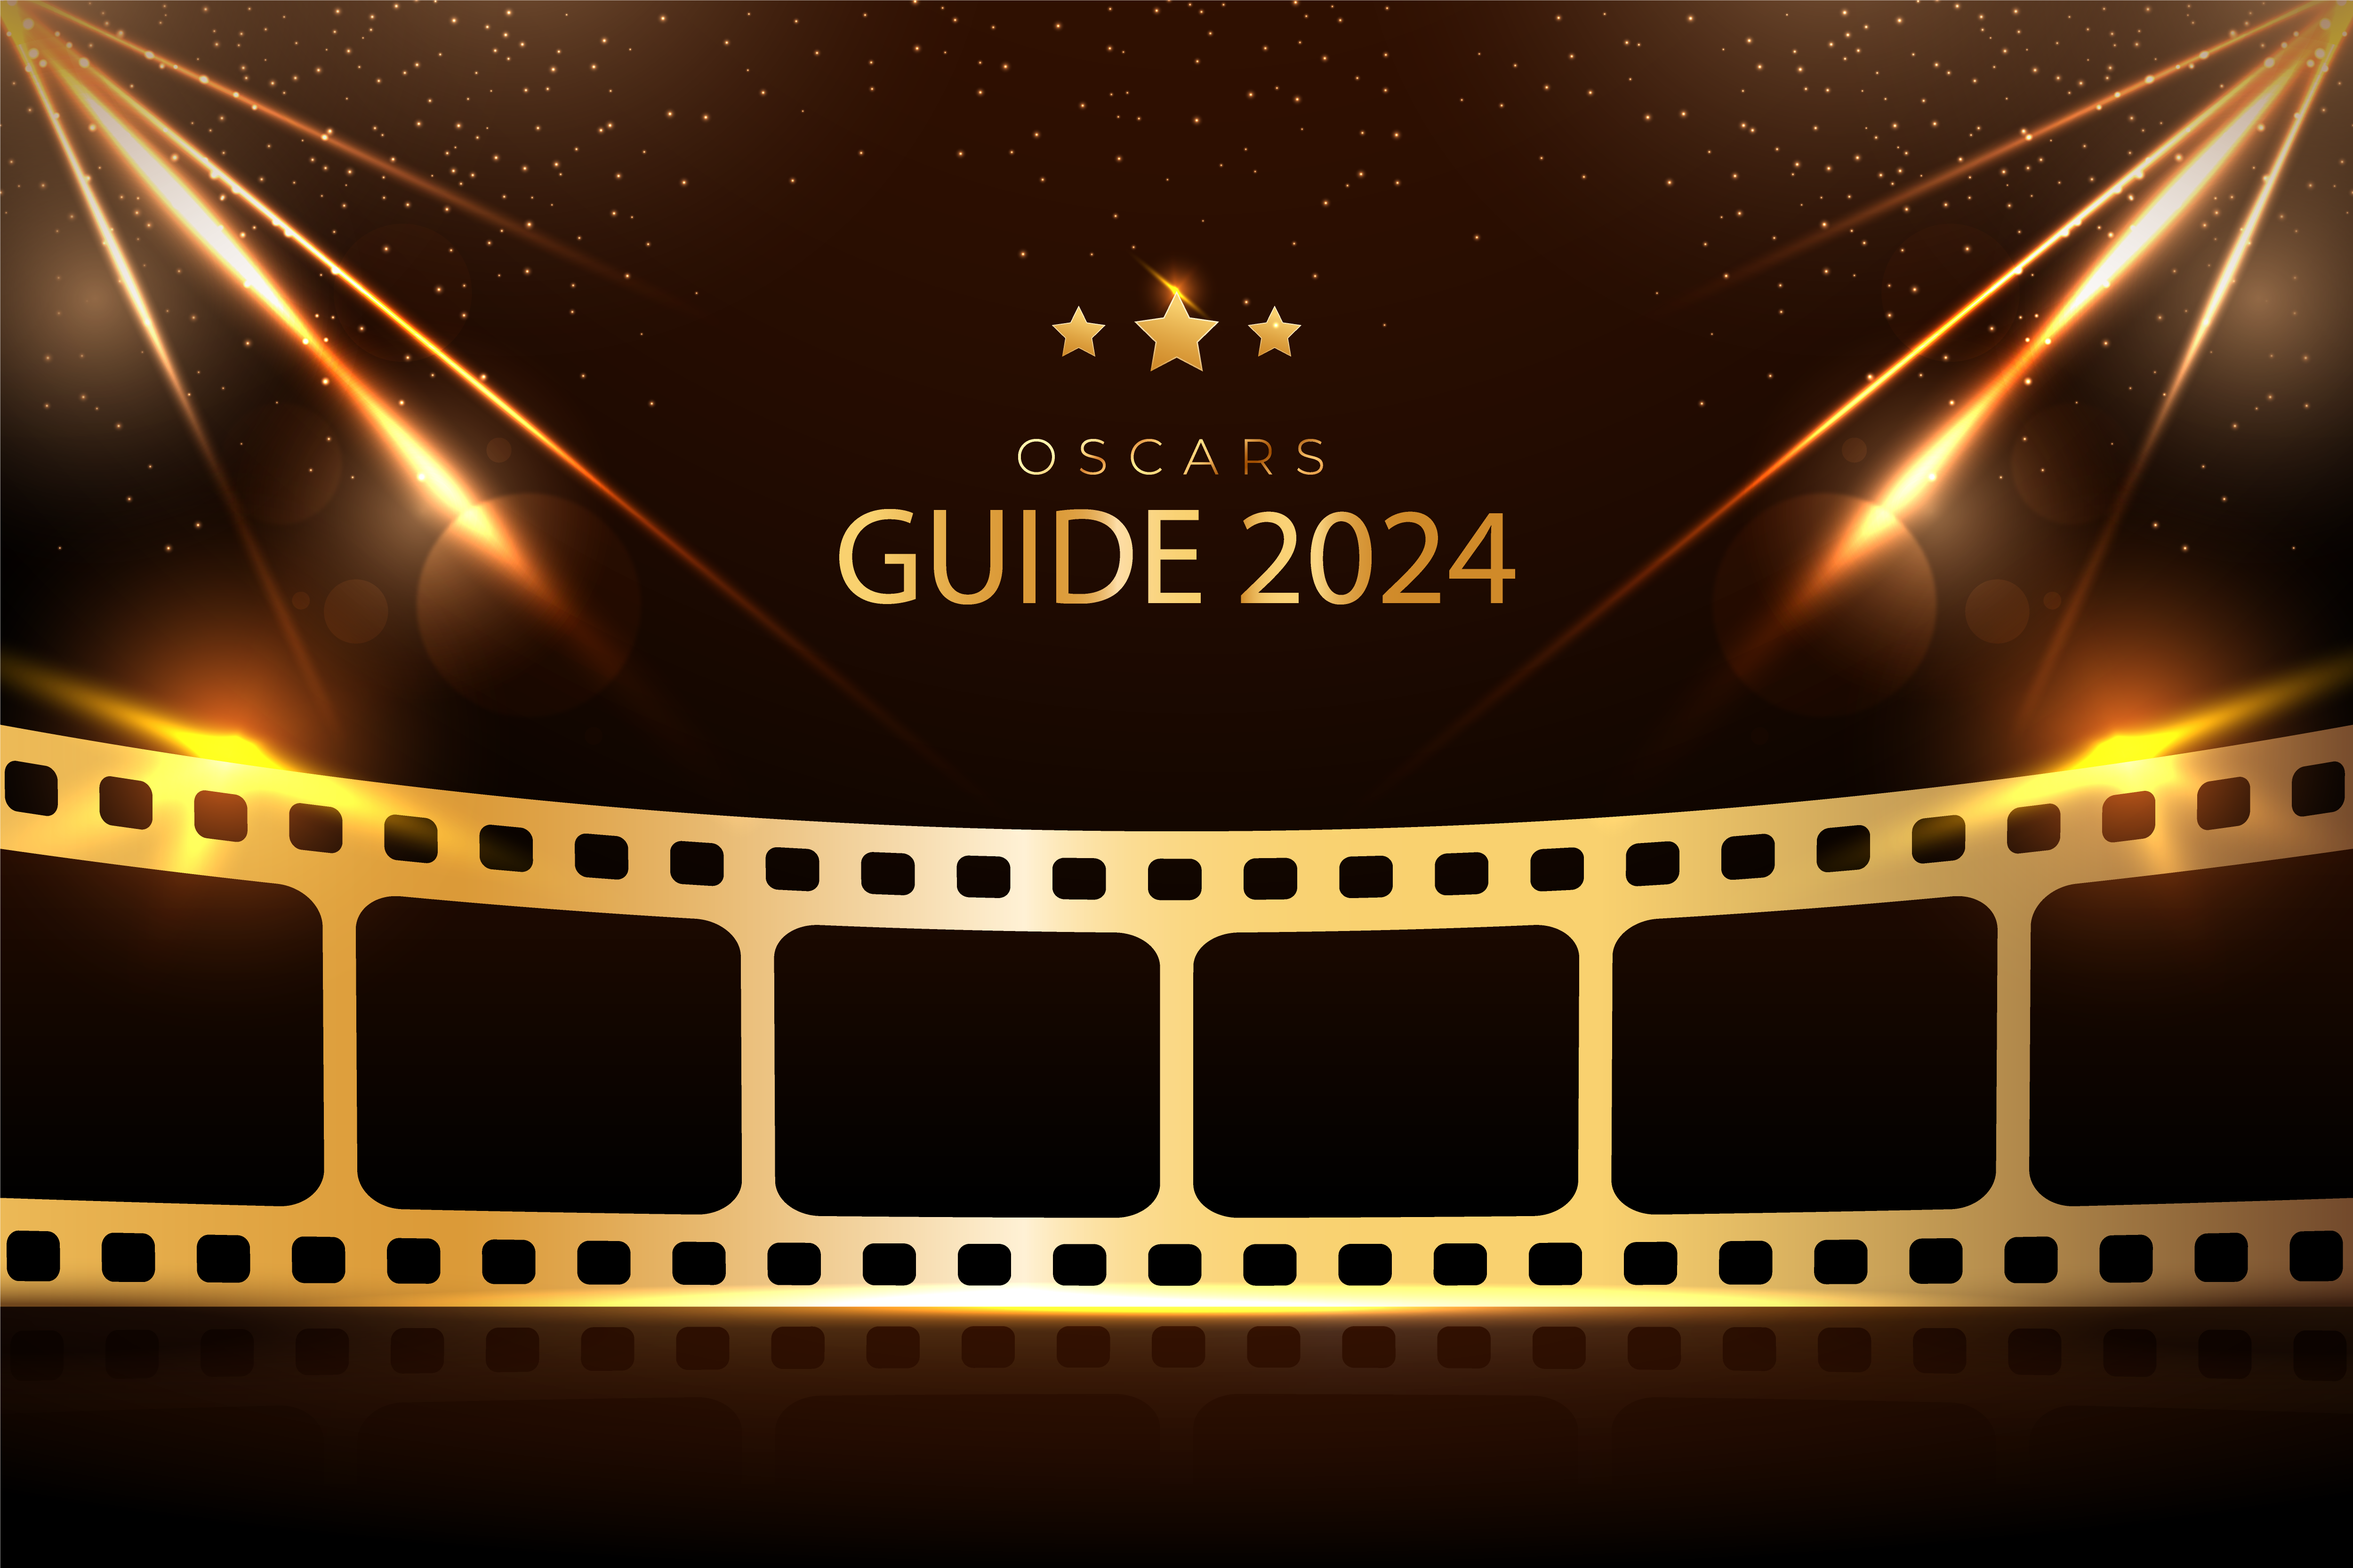
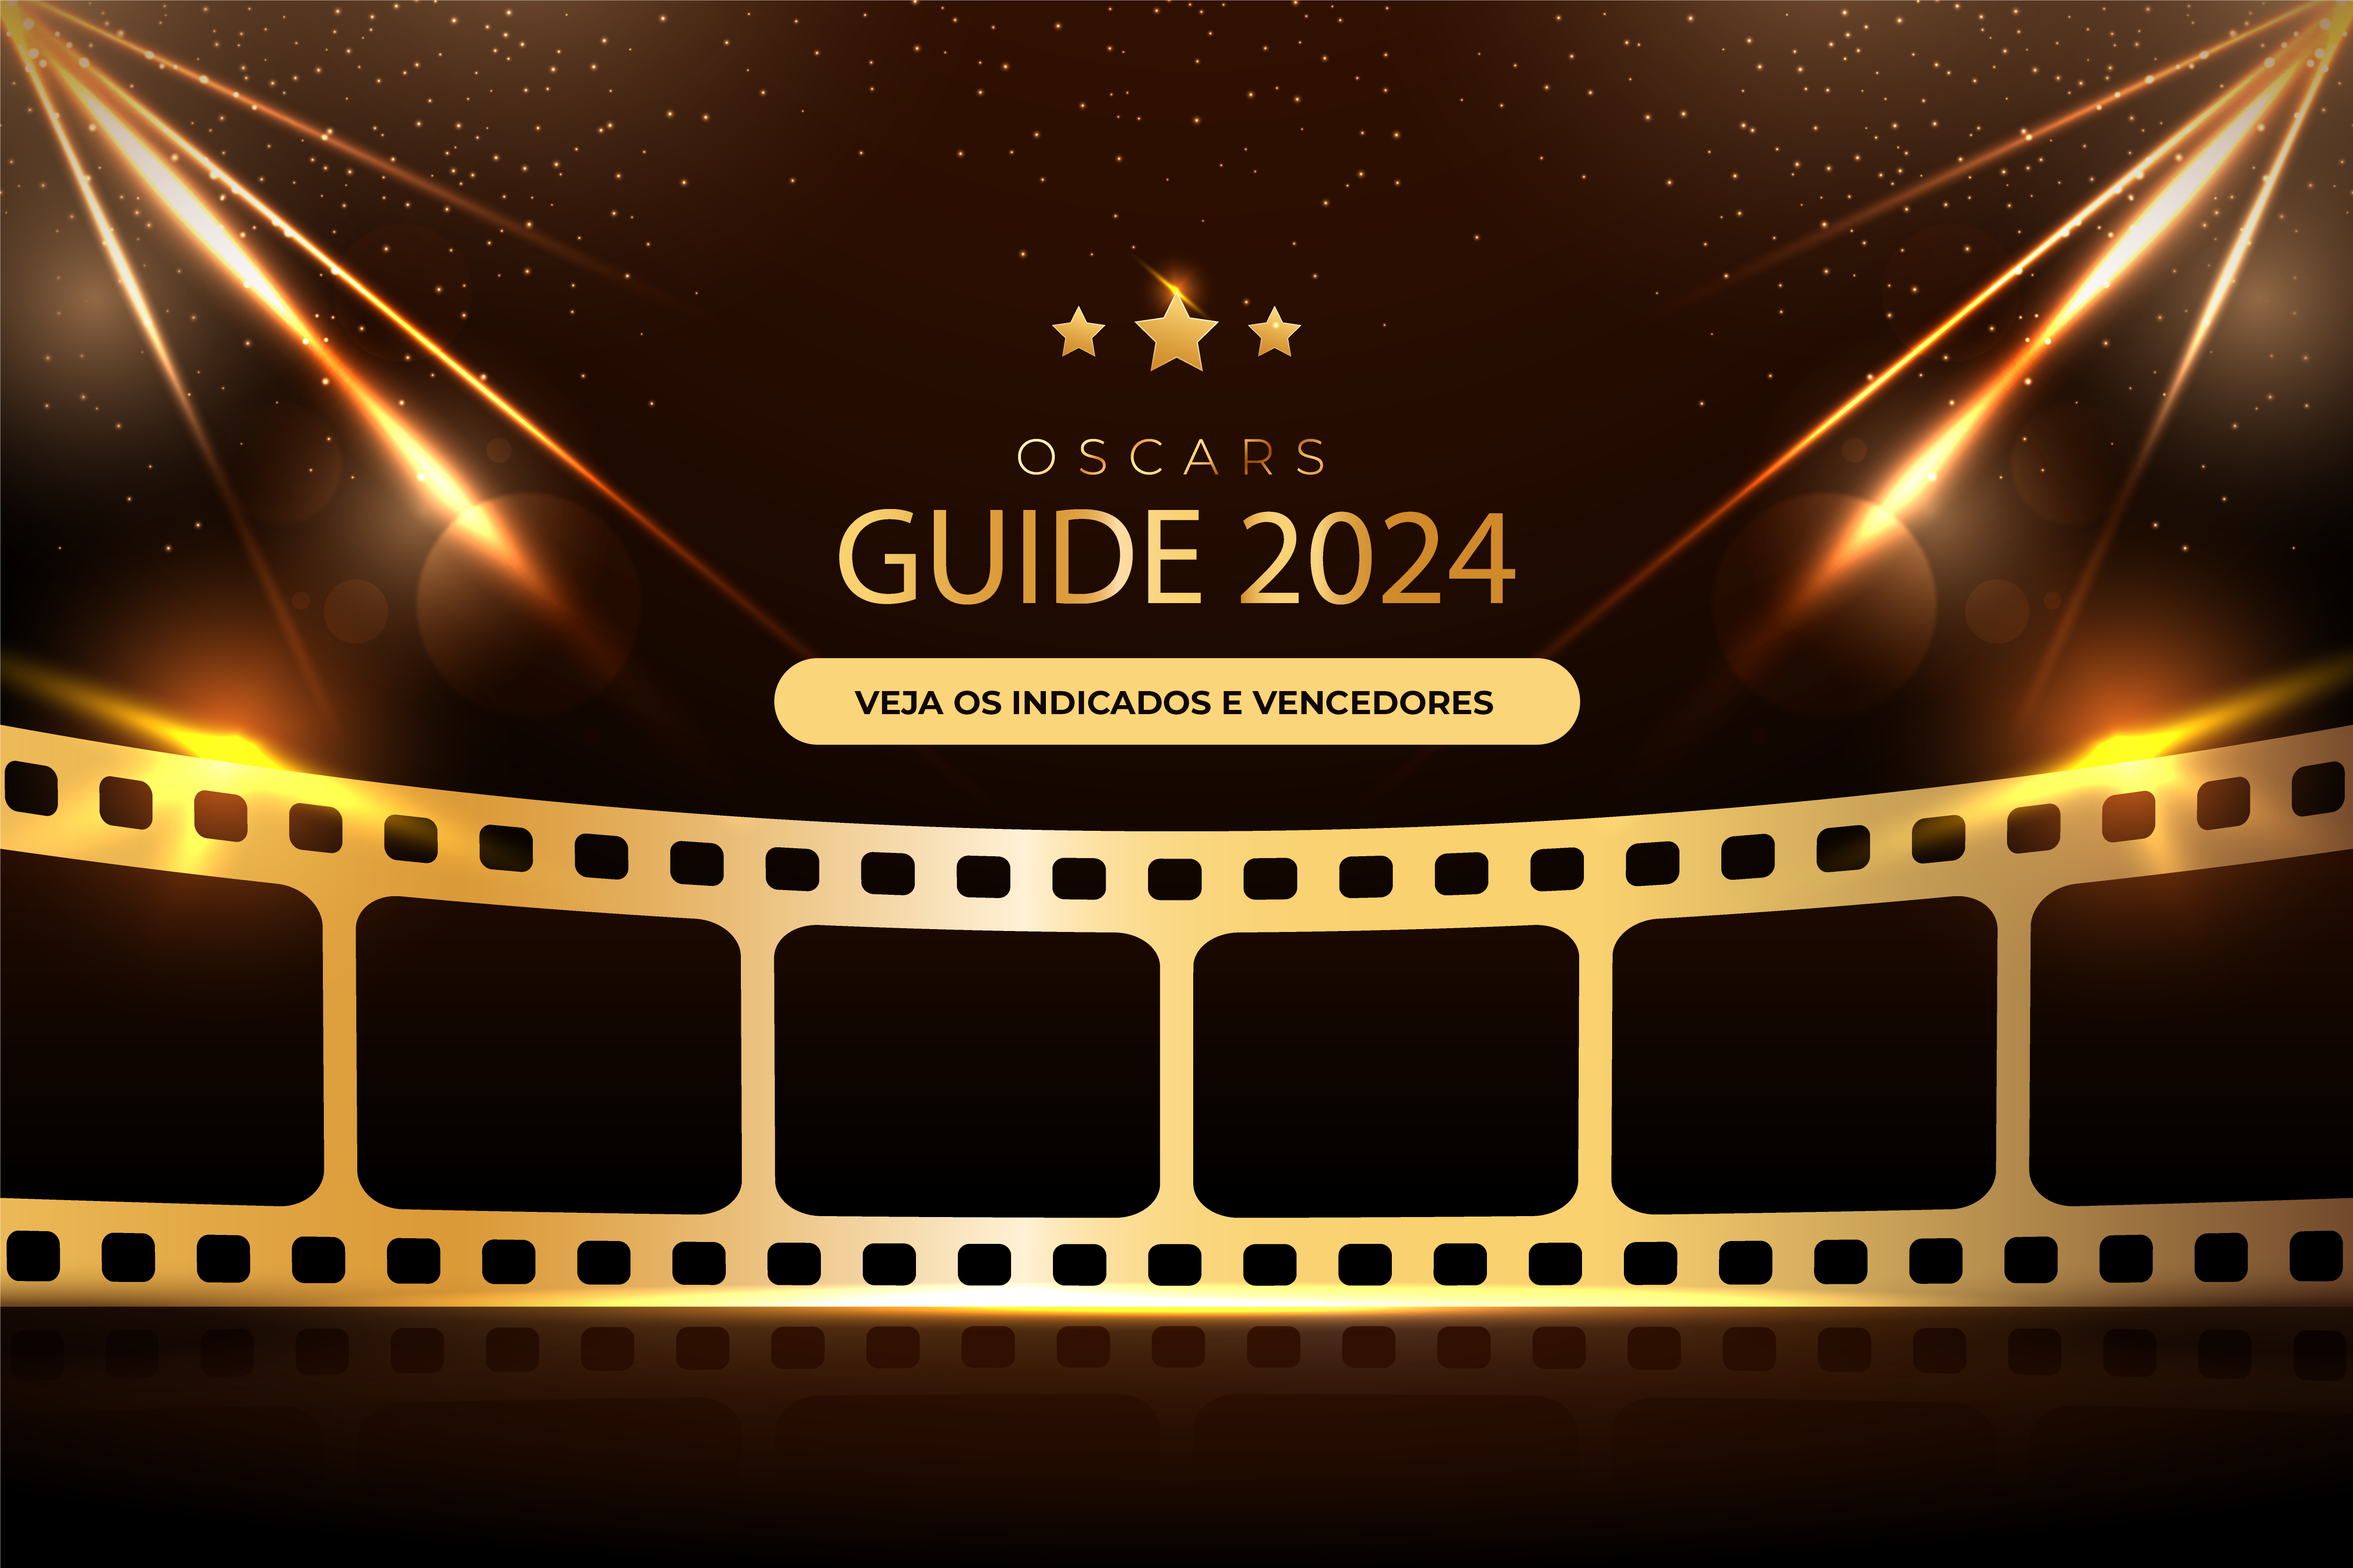
section finished and header modification

Changed region(s): [[0.3121, 0.4056, 0.6865, 0.4992]]

diff --git a/oscars-guide/index.html b/oscars-guide/index.html
@@ -8,11 +8,7 @@
         </head>
 
         <body>
-            <div class="imageContainer">
-                <img src="img/Ativo 1.webp" alt="Imagem com o título Oscars Guide 2024 com estrelas e uma moldura de filme fotográfico antigo, em cores preta e dourada.">
-
-                <a href="#categorias"><button class="botaoIrParaCategorias">VEJA OS INDICADOS E OS VENCEDORES</button></a>
-            </div>
+                <a href="#categorias"><img src="img/Ativo 1.webp" alt="Imagem com o título Oscars Guide 2024 com estrelas e uma moldura de filme fotográfico antigo, em cores preta e dourada."></a>
 
             <section id="categorias">
                 <button class="botaoTitulo">CATEGORIAS</button>
@@ -639,16 +635,16 @@
                         </li>
 
                         <li class="imagem">
-                            <a href="" target="_blank">
+                            <a href="https://www.youtube.com/watch?v=1amOPUn49aM" target="_blank">
                             <img src="img/filmes/the-barber.webp" alt="Cartaz do curta The Barber of Little Rock.">
-                            <div class="textoHover">Infelizmente ainda não está disponível em nenhum streaming.</div>
+                            <div class="textoHover">Clique no cartaz e acesse o curta no streaming em que ele está!</div>
                         </a>
                         </li>
 
                         <li class="imagem">
-                            <a href="" target="_blank">
+                            <a href="https://www.youtube.com/watch?v=DefVP0mkHZY&t=1s" target="_blank">
                             <img src="img/filmes/island-in-between.webp" alt="Cartaz do curta Island in Between.">
-                            <div class="textoHover">Infelizmente ainda não está disponível em nenhum streaming</div>
+                            <div class="textoHover">Clique no cartaz e acesse o curta no streaming em que ele está!</div>
                         </a>
                         </li>
 
@@ -677,12 +673,39 @@
                 <nav>
                     <ul>
                         <li class="imagem">
-                            <a href="" target="_blank">
-                            <img src="" alt="Cartaz do filme Anatomia de uma Queda.">
-                            <div class="textoHover">Clique no cartaz e acesse o filme no streaming em que ele está!</div>
+                            <a href="https://tv.apple.com/br/movie/letter-to-a-pig/umc.cmc.1yt1e8k01gta08f4dofe8ubc3?action=play" target="_blank">
+                            <img src="img/filmes/letter-to-a-pig.webp" alt="Cartaz do curta Letter to a Pig.">
+                            <div class="textoHover">Clique no cartaz e acesse o curta no streaming em que ele está!</div>
                         </a>
                         </li>
 
+                        <li class="imagem">
+                            <a href="https://www.docplus.com/details/ninetyfive-senses/FwnPa7Bz/" target="_blank">
+                            <img src="img/filmes/95-senses.webp" alt="Cartaz do curta 95 Senses.">
+                            <div class="textoHover">Clique no cartaz e acesse o curta no streaming em que ele está!</div>
+                        </a>
+                        </li>
+
+                        <li class="imagem">
+                            <a href="https://tv.apple.com/br/movie/umc.cmc.z4h7eactb7rjgom1kwtgsus0" target="_blank">
+                            <img src="img/filmes/our-unifrom.webp" alt="Cartaz do curta Our Uniform.">
+                            <div class="textoHover">Clique no cartaz e acesse o curta no streaming em que ele está!</div>
+                        </a>
+                        </li>
+
+                        <li class="imagem">
+                            <a href="https://tv.apple.com/br/movie/pachyderme/umc.cmc.3h0fz2ug6o8me96697lmhgqas" target="_blank">
+                            <img src="img/filmes/pachy.webp" alt="Cartaz do curta Pachyderme.">
+                            <div class="textoHover">Clique no cartaz e acesse o curta no streaming em que ele está!</div>
+                        </a>
+                        </li>
+
+                        <li class="imagemVencedor">
+                            <a href="" target="_blank">
+                            <img src="img/filmes/war-is-over.webp" alt="Cartaz do curta War is Over!.">
+                            <div class="textoHover">Infelizmente ainda não está em nenhum streaming.</div>
+                        </a>
+                        </li>
                     </ul>
                 </nav>
 
@@ -694,12 +717,39 @@
                 <nav>
                     <ul>
                         <li class="imagem">
-                            <a href="" target="_blank">
-                            <img src="" alt="Cartaz do filme Anatomia de uma Queda.">
-                            <div class="textoHover">Clique no cartaz e acesse o filme no streaming em que ele está!</div>
+                            <a href="https://www.netflix.com/watch/81460836?source=35" target="_blank">
+                            <img src="img/filmes/the-after.webp" alt="Cartaz do curta The After.">
+                            <div class="textoHover">Clique no cartaz e acesse o curta no streaming em que ele está!</div>
                         </a>
                         </li>
 
+                        <li class="imagem">
+                            <a href="https://vimeo.com/911411289?utm_campaign=5370367&utm_source=affiliate&utm_channel=affiliate&cjevent=468c095cdd9111ee82ca55090a82b824&clickid=468c095cdd9111ee82ca55090a82b824" target="_blank">
+                            <img src="img/filmes/invincible.webp" alt="Cartaz do curta Invincible.">
+                            <div class="textoHover">Clique no cartaz e acesse o curta no streaming em que ele está!</div>
+                        </a>
+                        </li>
+
+                        <li class="imagem">
+                            <a href="https://vimeo.com/ondemand/knightoffortune?utm_campaign=5370367&utm_source=affiliate&utm_channel=affiliate&cjevent=288e0e9edd9211ee83c93fda0a82b82a&clickid=288e0e9edd9211ee83c93fda0a82b82a" target="_blank">
+                            <img src="" alt="Cartaz do curta Knight of Fortune.">
+                            <div class="textoHover">Clique no cartaz e acesse o curta no streaming em que ele está!</div>
+                        </a>
+                        </li>
+
+                        <li class="imagem">
+                            <a href="https://redwhiteandblue.vhx.tv/" target="_blank">
+                            <img src="" alt="Cartaz do curta Red, White & Blue.">
+                            <div class="textoHover">Clique no cartaz e acesse o curta no streaming em que ele está!</div>
+                        </a>
+                        </li>
+
+                        <li class="imagemVencedor">
+                            <a href="https://www.netflix.com/watch/81725557?source=35" target="_blank">
+                            <img src="img/filmes/a-incrivel-historia-de-henry-sugar.webp" alt="Cartaz do curta A Incrível História de Henry Sugar.">
+                            <div class="textoHover">Clique no cartaz e acesse o curta no streaming em que ele está!</div>
+                        </a>
+                        </li>
                     </ul>
                 </nav>
 

diff --git a/oscars-guide/style.css b/oscars-guide/style.css
@@ -9,30 +9,6 @@ img {
     width: 100%;
 }
 
-.imageContainer {
-    position: relative;
-}
-
-.botaoIrParaCategorias {
-    position: absolute;
-    z-index: 1;
-    top: 41%;
-    left: 33%;
-    width: 468px;
-    height: 44px;
-
-    color: #000000;
-    text-align: center;
-    font-size: 20px;
-    font-weight: 600;
-
-    background-color: #FBD579;
-    border-radius: 25px;
-    border-color: transparent;
-
-    cursor: pointer;
-}
-
 .botaoTitulo {
     color: #FBD579;
     background-color: transparent;
